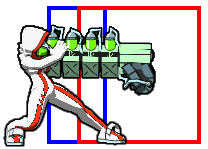
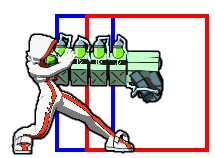
Add toxic images
only blaze getup image is missing

also fix two small bugs related to parries

diff --git a/main.js b/main.js
@@ -77,14 +77,70 @@ var characterJSON = {
     "color": "#ff3913",
     "strokeColor": "#75ff13",
     "img_name": "toxic",
-    "baseHeight": 136,
+    "baseHeight": 138,
     "poses": [
       {
         "name": "swing",
-        "imgSize": [208, 149],
-        "hurtboxes": [[0, 0, 208, 149]],
-        "hitboxes": [[0, 0, 208, 149]]
-      }
+        "imgSize": [215, 158],
+        "hurtboxes": [[55, 14, 60, 138]],
+        "hitboxes": [[85, 14, 124, 138]]
+      },
+      {
+        "name": "smash",
+        "imgSize": [213, 240],
+        "hurtboxes": [[59, 93, 60, 138]],
+        "hitboxes": [[34, 24, 110, 100], [89, 93, 110, 138]]
+      },
+      {
+        "name": "spike",
+        "imgSize": [165, 278],
+        "hurtboxes": [[53, 23, 60, 138]],
+        "hitboxes": [[22, 102, 121, 170]]
+      },
+      {
+        "name": "bunt",
+        "imgSize": [217, 209],
+        "hurtboxes": [[64, 60, 60, 138]],
+        "hitboxes": [[127, 20, 77, 75], [94, 95, 110, 103]]
+      },
+      {
+        "name": "grab",
+        "imgSize": [214, 165],
+        "hurtboxes": [[64, 18, 60, 138]],
+        "hitboxes": [[94, 18, 110, 138]],
+        "canMirror": true,
+        "fixedRelease": [110, 49],
+      },
+      {
+        "name": "stand",
+        "imgSize": [131, 158],
+        "hurtboxes": [[15, 12, 60, 138]],
+        "hitboxes": []
+      },
+      {
+        "name": "halfcrouch",
+        "imgSize": [145, 127],
+        "hurtboxes": [[42, 23, 60, 96]],
+        "hitboxes": [],
+        "grounded": true,
+        "groundOffset": 0,
+      },
+      {
+        "name": "crouch",
+        "imgSize": [179, 111],
+        "hurtboxes": [[53, 36, 80, 64]],
+        "hitboxes": [],
+        "grounded": true,
+        "groundOffset": 0,
+      },
+      {
+        "name": "lay",
+        "imgSize": [179, 72],
+        "hurtboxes": [[23, 7, 138, 45]],
+        "hitboxes": [],
+        "grounded": true,
+        "groundOffset": 7,
+      },
     ],
     "angles": [
       {
@@ -101,7 +157,7 @@ var characterJSON = {
       {
         "name": "smash",
         "degrees": 41,
-        "validWhen": ["swing"],
+        "validWhen": ["smash"],
         "customOffset": 110,
       },
       {
@@ -113,13 +169,13 @@ var characterJSON = {
       {
         "name": "spike-forward",
         "degrees": 21,
-        "validWhen": ["swing"],
+        "validWhen": ["spike"],
         "customOffset": 70,
       },
       {
         "name": "spike-backward",
         "degrees": 106,
-        "validWhen": ["swing"]
+        "validWhen": ["spike"]
       }
     ]
   },
@@ -2538,14 +2594,14 @@ $('document').ready(function() {
         var angle = char.angles[k];
         if (angle.validWhen.indexOf(pose.name) >= 0) {
           pose.hasAngle = true;
-          if (pose.name == "pushbox" || pose.name == "grab" || pose.name == "spit") {
+          if (pose.name == "pushbox" || pose.name == "grab" || pose.name == "bunt" || pose.name == "spit") {
             pose.canParry = false;
           } else {
             pose.canParry = true;
           }
           if (char.name == "Grid") {
             // Every pose that can parry can also special
-            pose.canSpecial = true;
+            pose.canSpecial = pose.canParry;
           }
           break;
         }
